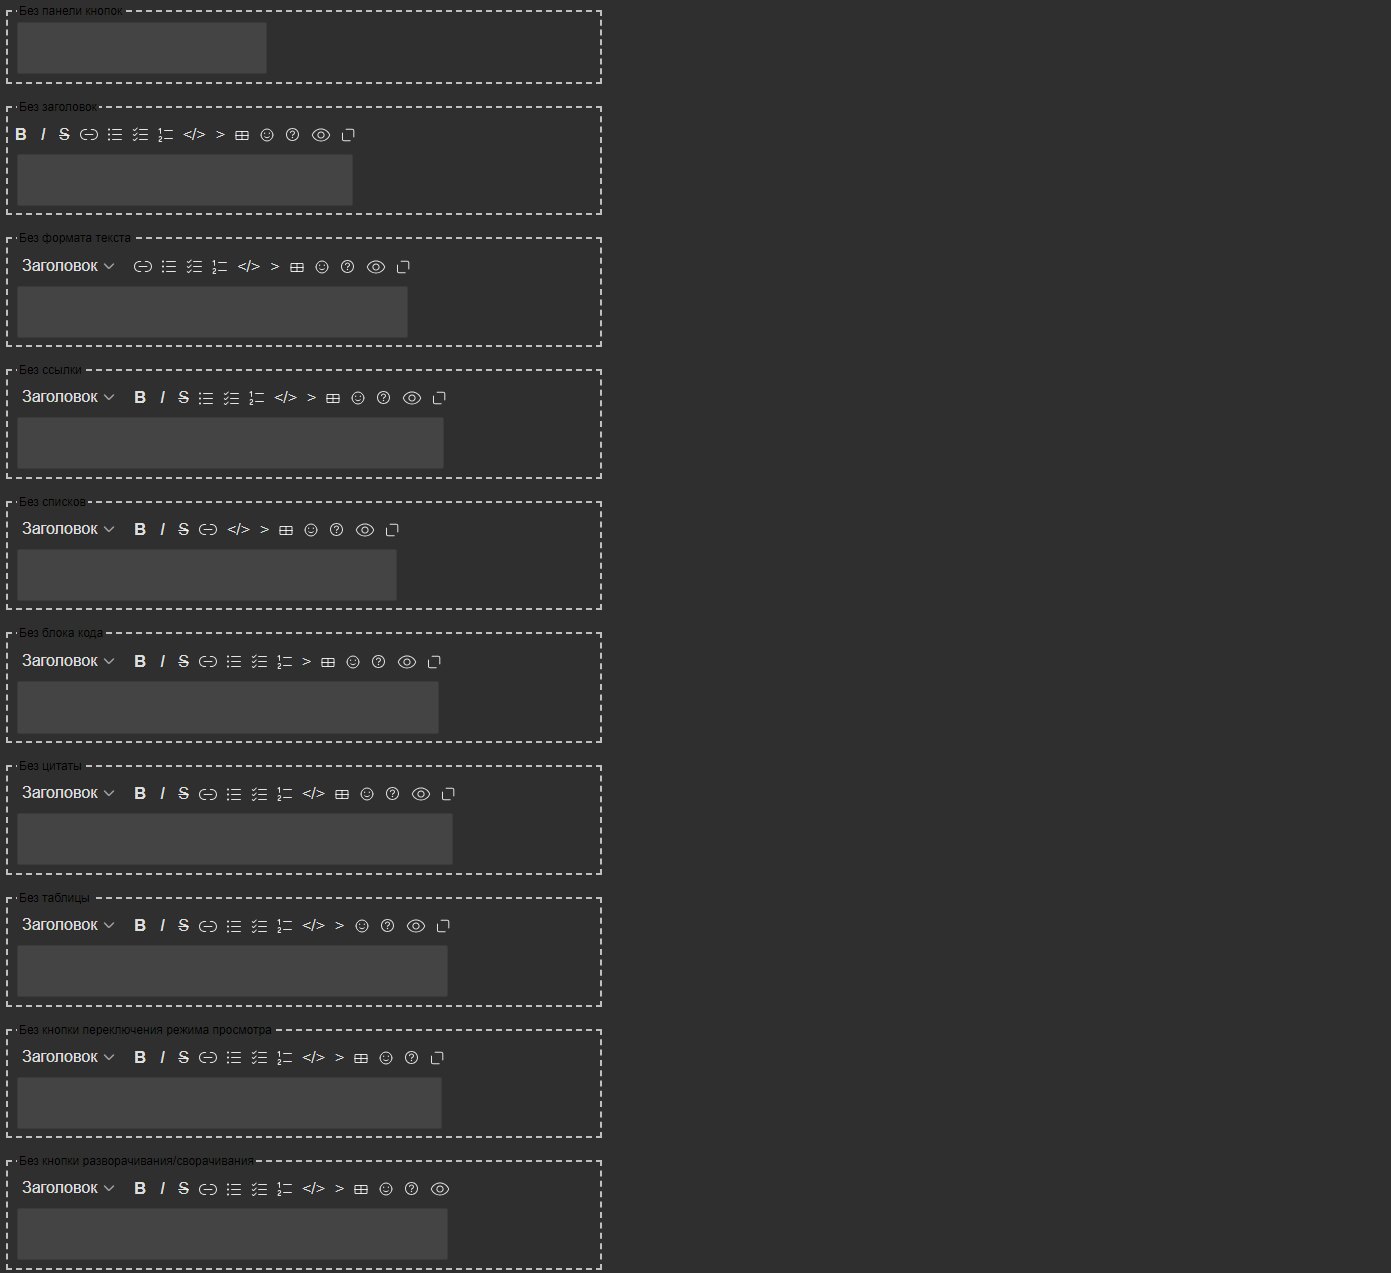
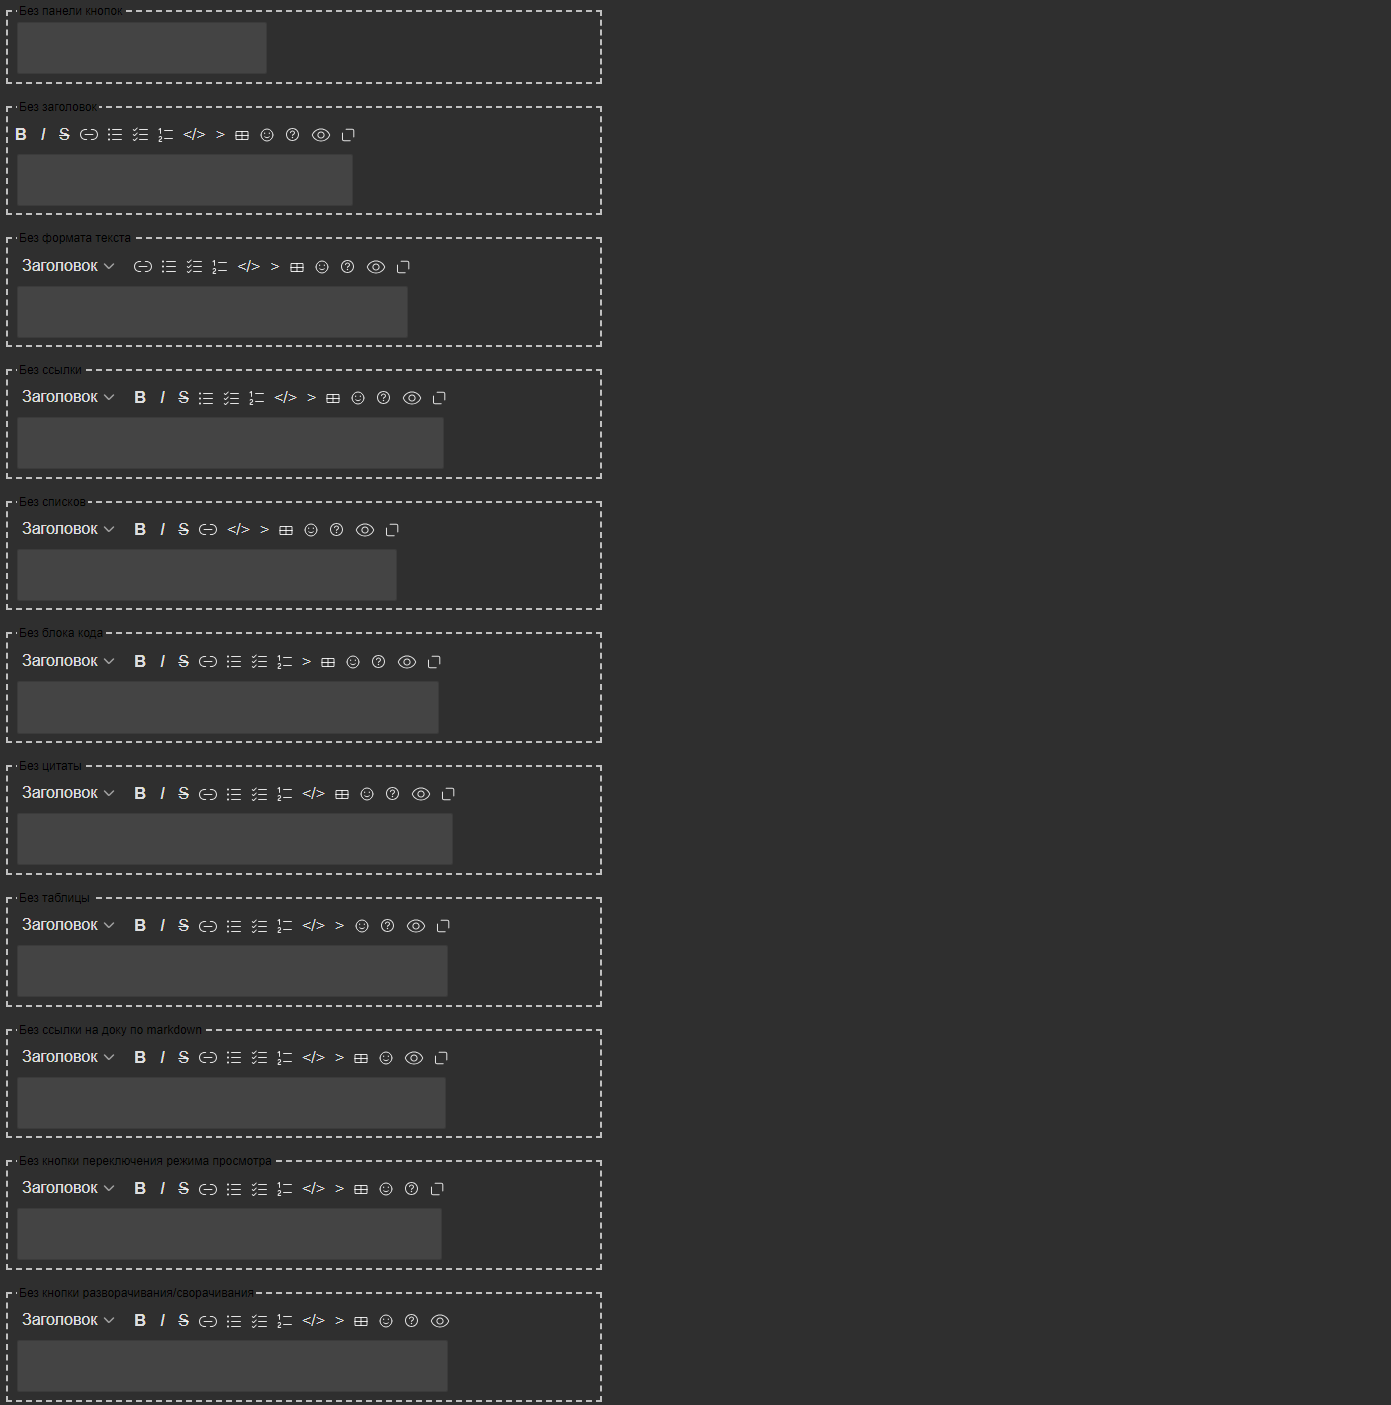
в hideOptions добавил "help" для скрытия ссылки на доку по markdown

diff --git a/src/Markdown/MarkdownActions.tsx b/src/Markdown/MarkdownActions.tsx
@@ -142,12 +142,14 @@ export const MarkdownActions: FC<Props> = ({
           {!hideOptions?.emoji && (
             <EmojiDropdown showShortKey={showShortKeys} isPreviewMode={isPreviewMode} onSelect={onSelectEmoji} />
           )}
-          <MarkdownFormatButton
-            hintText="Документация Markdown"
-            icon={<DocIcon />}
-            text="Документация Markdown"
-            href={COMMONMARK_HELP_URL}
-          />
+          {!hideOptions?.help && (
+            <MarkdownFormatButton
+              hintText="Документация Markdown"
+              icon={<DocIcon />}
+              text="Документация Markdown"
+              href={COMMONMARK_HELP_URL}
+            />
+          )}
         </ActionsWrapper>
         <ActionsWrapper>
           {!hideOptions?.viewMode && renderViewModeButton()}

diff --git a/src/Markdown/__stories__/Markdown.stories.tsx b/src/Markdown/__stories__/Markdown.stories.tsx
@@ -196,6 +196,10 @@ export const HiddenOptions = () => {
         <Markdown hideActionsOptions={{ table: true }} rows={1} />
       </fieldset>
       <fieldset style={itemStyles}>
+        <legend>Без ссылки на доку по markdown</legend>
+        <Markdown hideActionsOptions={{ help: true }} rows={1} />
+      </fieldset>
+      <fieldset style={itemStyles}>
         <legend>Без кнопки переключения режима просмотра</legend>
         <Markdown hideActionsOptions={{ viewMode: true }} rows={1} />
       </fieldset>

diff --git a/src/Markdown/types.ts b/src/Markdown/types.ts
@@ -50,5 +50,5 @@ export interface TestCase<V, E> {
 export type ReactUIThemeType = Partial<typeof THEME_2022>;
 
 export type HideActionsOptions = Partial<
-  Record<MarkdownFormat | 'heading' | 'emoji' | 'viewMode' | 'screenMode' | 'allActions', boolean>
+  Record<MarkdownFormat | 'heading' | 'emoji' | 'viewMode' | 'screenMode' | 'help' | 'allActions', boolean>
 >;
